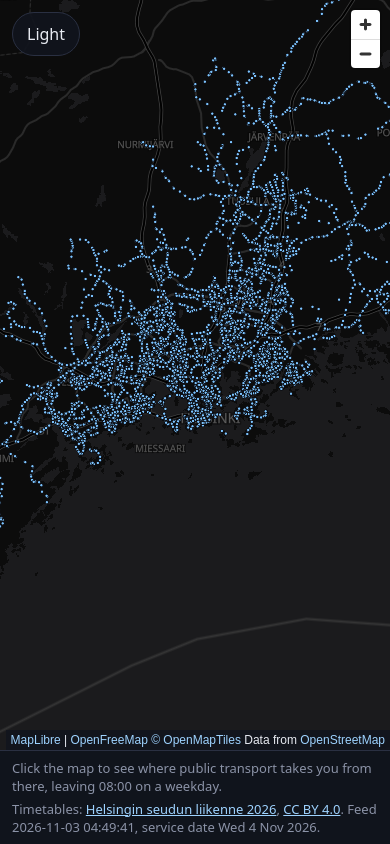
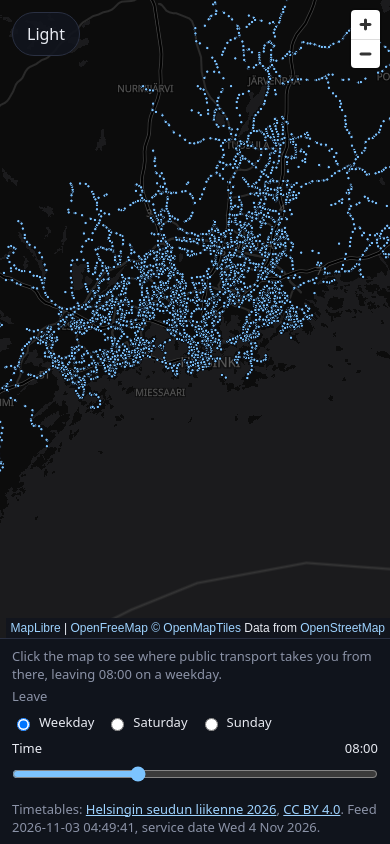
feat: departure time and day type picker (#7)

diff --git a/src/ui/main.ts b/src/ui/main.ts
@@ -2,7 +2,8 @@ import * as maplibregl from 'maplibre-gl';
 import {creditOf} from '../core/credit';
 import {CELL_METRES, computeField, makeGrid, reachedCells, REGION} from '../core/field';
 import {indexStops, raptor, type StopIndex} from '../core/raptor';
-import {BAND_MINUTES, DEFAULT_DEPARTURE, MAX_ROUNDS, bandsOf, reachableWithin, sourcesNear} from '../core/reach';
+import {BAND_MINUTES, MAX_ROUNDS, bandsOf, reachableWithin, sourcesNear} from '../core/reach';
+import {clockLabel, resolveServiceDay, type DayType} from '../core/service-day';
 import {validateManifest} from '../core/manifest';
 import {stopsGeoJson, type StopFeatureCollection} from '../core/stops-geojson';
 import {bandColours, bandExpression, parseTheme, resolveTheme, stopPaint, styleFor, type Theme} from '../core/theme';
@@ -36,9 +37,18 @@ const map = new maplibregl.Map({
 map.addControl(new maplibregl.AttributionControl({compact: false, customAttribution: '<a href="https://maplibre.org/">MapLibre</a>'}), 'bottom-right');
 map.addControl(new maplibregl.NavigationControl({showCompass: false}), 'top-right');
 
+interface Loaded {
+  timetable: Timetable;
+  index: StopIndex;
+}
+
 let stops: StopFeatureCollection | null = null;
-let timetable: Timetable | null = null;
-let index: StopIndex | null = null;
+let manifest: ReturnType<typeof validateManifest> | null = null;
+const days = new Map<DayType, Promise<Loaded>>();
+let dayType: DayType = 'weekday';
+let clock = 8 * 3600;
+let loaded: Loaded | null = null;
+let loadedDayType: DayType = 'weekday';
 let origin: [number, number] | null = null;
 let showStops = false;
 let latest = 0;
@@ -134,20 +144,45 @@ function showCredit(manifest: ReturnType<typeof validateManifest>): void {
   );
 }
 
+/** One fetch per day file; a failed fetch is forgotten so choosing it again retries. */
+function loadDay(day: DayType): Promise<Loaded> {
+  let pending = days.get(day);
+  if (!pending) {
+    pending = (async () => {
+      const res = await fetch(`data/${(manifest as NonNullable<typeof manifest>).files[day]}`);
+      if (!res.ok) throw new Error(`timetable ${res.status}`);
+      const timetable = decode(new Uint8Array(await res.arrayBuffer()));
+      return {timetable, index: indexStops(timetable)};
+    })();
+    pending.catch(() => days.delete(day));
+    days.set(day, pending);
+  }
+  return pending;
+}
+
+const when = document.getElementById('when') as HTMLFieldSetElement;
+const slider = document.getElementById('time-slider') as HTMLInputElement;
+const timeLabel = document.getElementById('time-label') as HTMLOutputElement;
+const dayRadios = [...document.querySelectorAll<HTMLInputElement>('input[name="day"]')];
+const DAY_NAMES: Record<DayType, string> = {weekday: 'a weekday', saturday: 'a Saturday', sunday: 'a Sunday'};
+
+function showClock(): void {
+  const text = clockLabel(clock);
+  timeLabel.textContent = text;
+  slider.setAttribute('aria-valuetext', text);
+}
+
 async function loadTimetable(): Promise<void> {
   try {
     const res = await fetch('data/manifest.json');
     if (!res.ok) throw new Error(`manifest ${res.status}`);
-    const manifest = validateManifest(await res.json());
-    const file = await fetch(`data/${manifest.files.weekday}`);
-    if (!file.ok) throw new Error(`timetable ${file.status}`);
-    const tt = decode(new Uint8Array(await file.arrayBuffer()));
-    timetable = tt;
-    index = indexStops(tt);
-    stops = stopsGeoJson(tt);
+    manifest = validateManifest(await res.json());
+    loaded = await loadDay(dayType);
+    stops = stopsGeoJson(loaded.timetable);
     status.textContent = 'Click the map to see where public transport takes you from there, leaving 08:00 on a weekday.';
     status.dataset.state = 'ready';
     showCredit(manifest);
+    when.disabled = false;
     if (map.isStyleLoaded()) drawStops();
   } catch {
     status.textContent = 'The timetable could not be loaded. The map still works.';
@@ -170,43 +205,77 @@ function showLegend(): void {
   legend.hidden = !origin;
 }
 
-map.on('click', (e) => {
-  if (!timetable || !index) return;
-  const tt = timetable;
-  const idx = index;
-  const {lng, lat} = e.lngLat;
+/** Runs the search from the origin for the chosen day and time; the previous result stays until it is done. */
+async function reach(): Promise<void> {
+  if (!origin || !manifest) return;
   const mine = ++latest;
-  // The previous field stays on screen while this one is computed.
+  const [lng, lat] = origin;
+  const query = resolveServiceDay(dayType, clock);
+  const wanted = DAY_NAMES[dayType];
+  let day: Loaded;
+  if (!days.has(query.dayType)) {
+    status.textContent = `Loading ${query.dayType} timetable...`;
+    status.dataset.state = 'computing';
+  }
+  try {
+    day = await loadDay(query.dayType);
+  } catch {
+    if (mine !== latest) return;
+    dayType = loadedDayType;
+    for (const r of dayRadios) r.checked = r.value === dayType;
+    status.textContent = `The ${query.dayType} timetable could not be loaded. The previous result is still shown.`;
+    status.dataset.state = 'failed';
+    return;
+  }
+  if (mine !== latest) return;
   status.textContent = 'Computing...';
   status.dataset.state = 'computing';
-  setTimeout(() => {
-    if (mine !== latest) return;
-    const sources = sourcesNear(tt, lat, lng, DEFAULT_DEPARTURE);
-    const result = sources.length > 0 ? raptor(tt, idx, sources, MAX_ROUNDS) : null;
-    const values = result
-      ? computeField(grid, {stopLat: tt.stopLat, stopLon: tt.stopLon, arrival: result.arrival, departure: DEFAULT_DEPARTURE})
-      : null;
-    if (!result || !values || reachedCells(values) === 0) {
-      origin = null;
-      stops = stopsGeoJson(tt);
-      field.set(null);
-      outlines.set(null);
-      status.textContent = 'No stop is within walking range of that point. Click closer to a stop.';
-      status.dataset.state = 'empty';
-    } else {
-      origin = [lng, lat];
-      stops = stopsGeoJson(tt, bandsOf(result.arrival, DEFAULT_DEPARTURE));
-      field.set(values);
-      outlines.set(values);
-      const n = reachableWithin(result.arrival, DEFAULT_DEPARTURE, 30);
-      status.textContent = `${n} ${n === 1 ? 'stop' : 'stops'} within 30 minutes, leaving 08:00 on a weekday.`;
-      status.dataset.state = 'reach';
-    }
-    field.render(theme);
-    outlines.render(theme);
-    drawStops();
-    showLegend();
-  }, 0);
+  await new Promise((resolve) => setTimeout(resolve, 0));
+  if (mine !== latest) return;
+  const tt = day.timetable;
+  const sources = sourcesNear(tt, lat, lng, query.offset);
+  const result = sources.length > 0 ? raptor(tt, day.index, sources, MAX_ROUNDS) : null;
+  const values = result
+    ? computeField(grid, {stopLat: tt.stopLat, stopLon: tt.stopLon, arrival: result.arrival, departure: query.offset})
+    : null;
+  loadedDayType = dayType;
+  if (!result || !values || reachedCells(values) === 0) {
+    origin = null;
+    stops = stopsGeoJson(tt);
+    field.set(null);
+    outlines.set(null);
+    status.textContent = 'No stop is within walking range of that point. Click closer to a stop.';
+    status.dataset.state = 'empty';
+  } else {
+    stops = stopsGeoJson(tt, bandsOf(result.arrival, query.offset));
+    field.set(values);
+    outlines.set(values);
+    const n = reachableWithin(result.arrival, query.offset, 30);
+    status.textContent = `${n} ${n === 1 ? 'stop' : 'stops'} within 30 minutes, leaving ${clockLabel(clock)} on ${wanted}.`;
+    status.dataset.state = 'reach';
+  }
+  field.render(theme);
+  outlines.render(theme);
+  drawStops();
+  showLegend();
+}
+
+map.on('click', (e) => {
+  if (!loaded) return;
+  origin = [e.lngLat.lng, e.lngLat.lat];
+  void reach();
+});
+
+for (const radio of dayRadios) {
+  radio.addEventListener('change', () => {
+    dayType = radio.value as DayType;
+    void reach();
+  });
+}
+slider.addEventListener('input', () => {
+  clock = Number(slider.value) * 60;
+  showClock();
+  void reach();
 });
 
 stopsToggle.addEventListener('change', () => {

diff --git a/src/core/service-day.test.ts b/src/core/service-day.test.ts
@@ -1,6 +1,6 @@
 import {expect, test} from 'bun:test';
 import {records, tableFromText} from './csv';
-import {activeServices, dayOfWeek, dayTypeOf, isDate} from './service-day';
+import {activeServices, clockLabel, dayOfWeek, dayTypeOf, isDate, resolveServiceDay, type DayType} from './service-day';
 
 const calendar = await records(tableFromText(`service_id,monday,tuesday,wednesday,thursday,friday,saturday,sunday,start_date,end_date
 WK,1,1,1,1,1,0,0,20261102,20261108
@@ -39,4 +39,36 @@ test('date validation', () => {
   expect(isDate('20261304')).toBe(false);
   expect(isDate('20260231')).toBe(false);
   expect(isDate('2026-11-04')).toBe(false);
+});
+
+const H = 3600;
+const table: [DayType, number, DayType, number][] = [
+  ['weekday', 8 * H, 'weekday', 8 * H],
+  ['saturday', 12 * H, 'saturday', 12 * H],
+  ['sunday', 12 * H, 'sunday', 12 * H],
+  ['weekday', 23.5 * H, 'weekday', 23.5 * H],
+  ['saturday', 23.5 * H, 'saturday', 23.5 * H],
+  ['sunday', 23.5 * H, 'sunday', 23.5 * H],
+  ['sunday', 1 * H, 'saturday', 25 * H],
+  ['saturday', 1 * H, 'weekday', 25 * H],
+  ['weekday', 1 * H, 'weekday', 25 * H],
+  ['sunday', 0, 'saturday', 24 * H],
+  ['sunday', 4 * H - 1, 'saturday', 28 * H - 1],
+  ['sunday', 4 * H, 'sunday', 4 * H],
+];
+
+test.each(table)('%s at %d s reads the %s file at %d s', (dayType, clock, file, offset) => {
+  expect(resolveServiceDay(dayType, clock)).toEqual({dayType: file, offset});
+});
+
+test('a clock outside the day is refused', () => {
+  expect(() => resolveServiceDay('weekday', -1)).toThrow();
+  expect(() => resolveServiceDay('weekday', 86400)).toThrow();
+  expect(() => resolveServiceDay('weekday', NaN)).toThrow();
+});
+
+test('clock labels', () => {
+  expect(clockLabel(8 * H)).toBe('08:00');
+  expect(clockLabel(23.5 * H)).toBe('23:30');
+  expect(clockLabel(0)).toBe('00:00');
 });

diff --git a/src/core/service-day.ts b/src/core/service-day.ts
@@ -41,3 +41,33 @@ export function activeServices(calendar: Row[], calendarDates: Row[], date: stri
   }
   return active;
 }
+
+const DAY_SECONDS = 86400;
+
+/** Clock times before this read the previous service day, whose trips run on past midnight (ADR 0002). */
+export const SERVICE_DAY_START = 4 * 3600;
+
+/** The day type that ran the day before. A weekday follows a weekday: the files hold one typical weekday, not Monday. */
+const PREVIOUS: Record<DayType, DayType> = {weekday: 'weekday', saturday: 'weekday', sunday: 'saturday'};
+
+export interface ServiceQuery {
+  /** The day file to search. */
+  dayType: DayType;
+  /** Seconds from the start of that file's service day; past 86400 in the small hours. */
+  offset: number;
+}
+
+/**
+ * Which day file and offset answer "leave at `clock` on a `dayType`", where `clock` is seconds
+ * since midnight of the chosen day. The small hours belong to the night service of the day before.
+ */
+export function resolveServiceDay(dayType: DayType, clock: number): ServiceQuery {
+  if (!Number.isFinite(clock) || clock < 0 || clock >= DAY_SECONDS) throw new Error(`clock out of range: ${clock}`);
+  return clock < SERVICE_DAY_START ? {dayType: PREVIOUS[dayType], offset: clock + DAY_SECONDS} : {dayType, offset: clock};
+}
+
+/** `HH:MM` of a clock time in seconds, for labels. */
+export function clockLabel(clock: number): string {
+  const minutes = Math.floor(clock / 60);
+  return `${String(Math.floor(minutes / 60)).padStart(2, '0')}:${String(minutes % 60).padStart(2, '0')}`;
+}

diff --git a/scripts/screenshots.ts b/scripts/screenshots.ts
@@ -30,6 +30,19 @@ for (const viewport of ui.viewports) {
       await page.waitForTimeout(1500);
       await page.screenshot({path: `${outDir}reach-${place.name}-${viewport.name}-${theme}.png`});
     }
+    await page.reload();
+    await page.waitForFunction(() => (window as any).__map?.loaded(), null, {timeout: 30000}).catch(() => {});
+    await page.waitForSelector('#status[data-state="ready"]', {timeout: 30000}).catch(() => {});
+    const centre = await page.evaluate(([lng, lat]) => (window as any).__map.project([lng, lat]), places[0]!.at);
+    await page.mouse.click(centre.x, centre.y);
+    await page.waitForSelector('#status[data-state="reach"]', {timeout: 10000}).catch(() => {});
+    await page.waitForTimeout(1500);
+    await page.screenshot({path: `${outDir}when-weekday-0800-${viewport.name}-${theme}.png`});
+    await page.check('input[name="day"][value="sunday"]');
+    await page.fill('#time-slider', String(23 * 60));
+    await page.waitForFunction(() => /23:00 on a Sunday/.test(document.getElementById('status')!.textContent ?? ''), null, {timeout: 20000}).catch(() => {});
+    await page.waitForTimeout(1500);
+    await page.screenshot({path: `${outDir}when-sunday-2300-${viewport.name}-${theme}.png`});
     await context.close();
   }
 }

diff --git a/src/snapshot.test.ts b/src/snapshot.test.ts
@@ -2,6 +2,8 @@ import {expect, test} from 'bun:test';
 import {readFileSync} from 'node:fs';
 import {validateManifest} from './core/manifest';
 import {DAY_TYPES, dayTypeOf} from './core/service-day';
+import {indexStops, raptor} from './core/raptor';
+import {MAX_ROUNDS, reachableWithin, sourcesNear} from './core/reach';
 import {decode, routeCount} from './core/timetable';
 
 // The committed snapshot is read from disk; refreshing it is `bun run data:build`.
@@ -33,3 +35,16 @@ for (const d of DAY_TYPES) {
     });
   });
 }
+
+test('the same origin reaches different stops on a weekday morning and a Sunday night', () => {
+  const load = (d: (typeof DAY_TYPES)[number]) => decode(readFileSync(new URL(manifest.files[d], dir)) as unknown as Uint8Array);
+  const reach = (tt: ReturnType<typeof decode>, departure: number) => {
+    const r = raptor(tt, indexStops(tt), sourcesNear(tt, 60.1719, 24.9414, departure), MAX_ROUNDS);
+    return reachableWithin(r.arrival, departure, 45);
+  };
+  const morning = reach(load('weekday'), 8 * 3600);
+  const night = reach(load('sunday'), 23 * 3600);
+  expect(morning).toBeGreaterThan(0);
+  expect(night).toBeGreaterThan(0);
+  expect(night).toBeLessThan(morning);
+});

diff --git a/public/index.html b/public/index.html
@@ -13,6 +13,16 @@
   <div id="map" role="application" aria-label="Map of the Helsinki region"></div>
   <aside id="controls" class="controls" aria-label="Controls">
     <p id="status" class="status" role="status">Loading the timetable...</p>
+    <fieldset class="when" id="when" disabled>
+      <legend>Leave</legend>
+      <div class="days" role="radiogroup" aria-label="Day type">
+        <label><input type="radio" name="day" value="weekday" checked> Weekday</label>
+        <label><input type="radio" name="day" value="saturday"> Saturday</label>
+        <label><input type="radio" name="day" value="sunday"> Sunday</label>
+      </div>
+      <label class="time" for="time-slider">Time <output id="time-label" for="time-slider">08:00</output></label>
+      <input id="time-slider" type="range" min="0" max="1425" step="15" value="480" aria-label="Departure time" aria-valuetext="08:00">
+    </fieldset>
     <ul id="legend" class="legend" aria-label="Travel time colours" hidden></ul>
     <label id="stops-row" class="stops-row" hidden><input id="stops-toggle" type="checkbox"> Show stops</label>
     <footer id="credit" class="credit"></footer>

diff --git a/public/app.css b/public/app.css
@@ -17,6 +17,14 @@ body { background: var(--bg); color: var(--fg); font: 16px/1.5 system-ui, sans-s
 .status { color: var(--muted); }
 .status[data-state="failed"] { color: var(--chrome-fg); font-weight: 600; }
 .status[data-state="empty"] { color: var(--chrome-fg); font-weight: 600; }
+.when { margin: 0; padding: 0; border: 0; min-width: 0; font-size: 13px; }
+.when legend { padding: 0; color: var(--muted); }
+.when .days { display: flex; flex-wrap: wrap; gap: 0 12px; }
+.when .days label { display: flex; align-items: center; gap: 6px; min-height: 32px; }
+.when .time { display: flex; justify-content: space-between; }
+.when input[type="range"] { width: 100%; min-height: 32px; margin: 0; accent-color: var(--accent); }
+.when input:focus-visible { outline: 3px solid var(--accent); outline-offset: 2px; }
+.when:disabled { opacity: 0.6; }
 .legend { list-style: none; margin: 0; padding: 0; display: flex; flex-wrap: wrap; gap: 4px 12px; font-size: 13px; }
 .legend[hidden] { display: none; }
 .legend li { display: flex; align-items: center; gap: 6px; }

diff --git a/docs/features.md b/docs/features.md
@@ -19,7 +19,7 @@ The data comes from the committed snapshot under `public/data/`, refreshed by `b
 
 ## Click to reach
 
-Before the first click the side panel says to click the map. A click sets the origin: the search leaves 08:00 on the weekday, the traveller walks to any stop within walking range, and the search runs in the browser on the loaded timetable. The origin is marked, and a one-line readout says how many stops are reachable within 30 minutes. If no stop is within walking range, a message says so and the field is cleared. The walking range and speed are the model constants in `src/core/walk.ts`.
+Before the first click the side panel says to click the map. A click sets the origin: the search leaves at the chosen time, 08:00 on a weekday at first, the traveller walks to any stop within walking range, and the search runs in the browser on the loaded timetable. The origin is marked, and a one-line readout says how many stops are reachable within 30 minutes. If no stop is within walking range, a message says so and the field is cleared. The walking range and speed are the model constants in `src/core/walk.ts`.
 
 The search also keeps, for every stop, how it was reached; `journey` in `src/core/raptor.ts` turns that into the walk and ride legs with times.
 
@@ -43,3 +43,20 @@ Near the city centre and in a suburb, with the outlines:
 ## Outlines
 
 Over the field, a line marks where the travel time crosses 15, 30, 45 and 60 minutes, each labelled with its minutes along the line. `src/core/contour.ts` runs marching squares over the field grid: a vertex lies on the line between two neighbouring cell centres where the value crosses the threshold, interpolated linearly. A cell at or below the threshold is inside, an unreached cell is outside, and where a reached cell meets an unreached one the vertex sits halfway. A saddle is resolved by the mean of the four corners, so the same grid always gives the same lines. Lines that run into the edge of the grid stay open; a threshold that nothing crosses draws nothing. The lines are a GeoJSON layer drawn in a colour and halo chosen per theme.
+
+## Departure time and day type
+
+The panel has a day selector (weekday, Saturday, Sunday) and a time slider across the whole day in quarter-hour steps. Both are native form controls, so they work by touch and keyboard and carry labels; the slider announces the chosen time. They are enabled once the timetable has loaded. Changing either re-runs the search from the current origin and repaints the field and outlines.
+
+`resolveServiceDay` in `src/core/service-day.ts` maps the chosen day type and clock time to the day file and the offset to search. The small hours of a morning belong to the night service of the day before: they read the previous day type with 24 hours added (a Sunday at 01:00 reads the Saturday file at 25:00). A weekday follows a weekday, since the files hold one typical weekday.
+
+Only the selected day file is fetched until another is needed; each is fetched once and kept. While a file loads the previous result stays and the status line says so; if it fails, the status line says so, the selector goes back to the day shown and the old result stays.
+
+The same origin at 08:00 on a weekday and at 23:00 on a Sunday:
+
+| | Light | Dark |
+|---|---|---|
+| Desktop, weekday 08:00 | ![Desktop, weekday, light](screenshots/when-weekday-0800-desktop-light.png) | ![Desktop, weekday, dark](screenshots/when-weekday-0800-desktop-dark.png) |
+| Desktop, Sunday 23:00 | ![Desktop, Sunday, light](screenshots/when-sunday-2300-desktop-light.png) | ![Desktop, Sunday, dark](screenshots/when-sunday-2300-desktop-dark.png) |
+| Phone, weekday 08:00 | ![Phone, weekday, light](screenshots/when-weekday-0800-phone-light.png) | ![Phone, weekday, dark](screenshots/when-weekday-0800-phone-dark.png) |
+| Phone, Sunday 23:00 | ![Phone, Sunday, light](screenshots/when-sunday-2300-phone-light.png) | ![Phone, Sunday, dark](screenshots/when-sunday-2300-phone-dark.png) |
